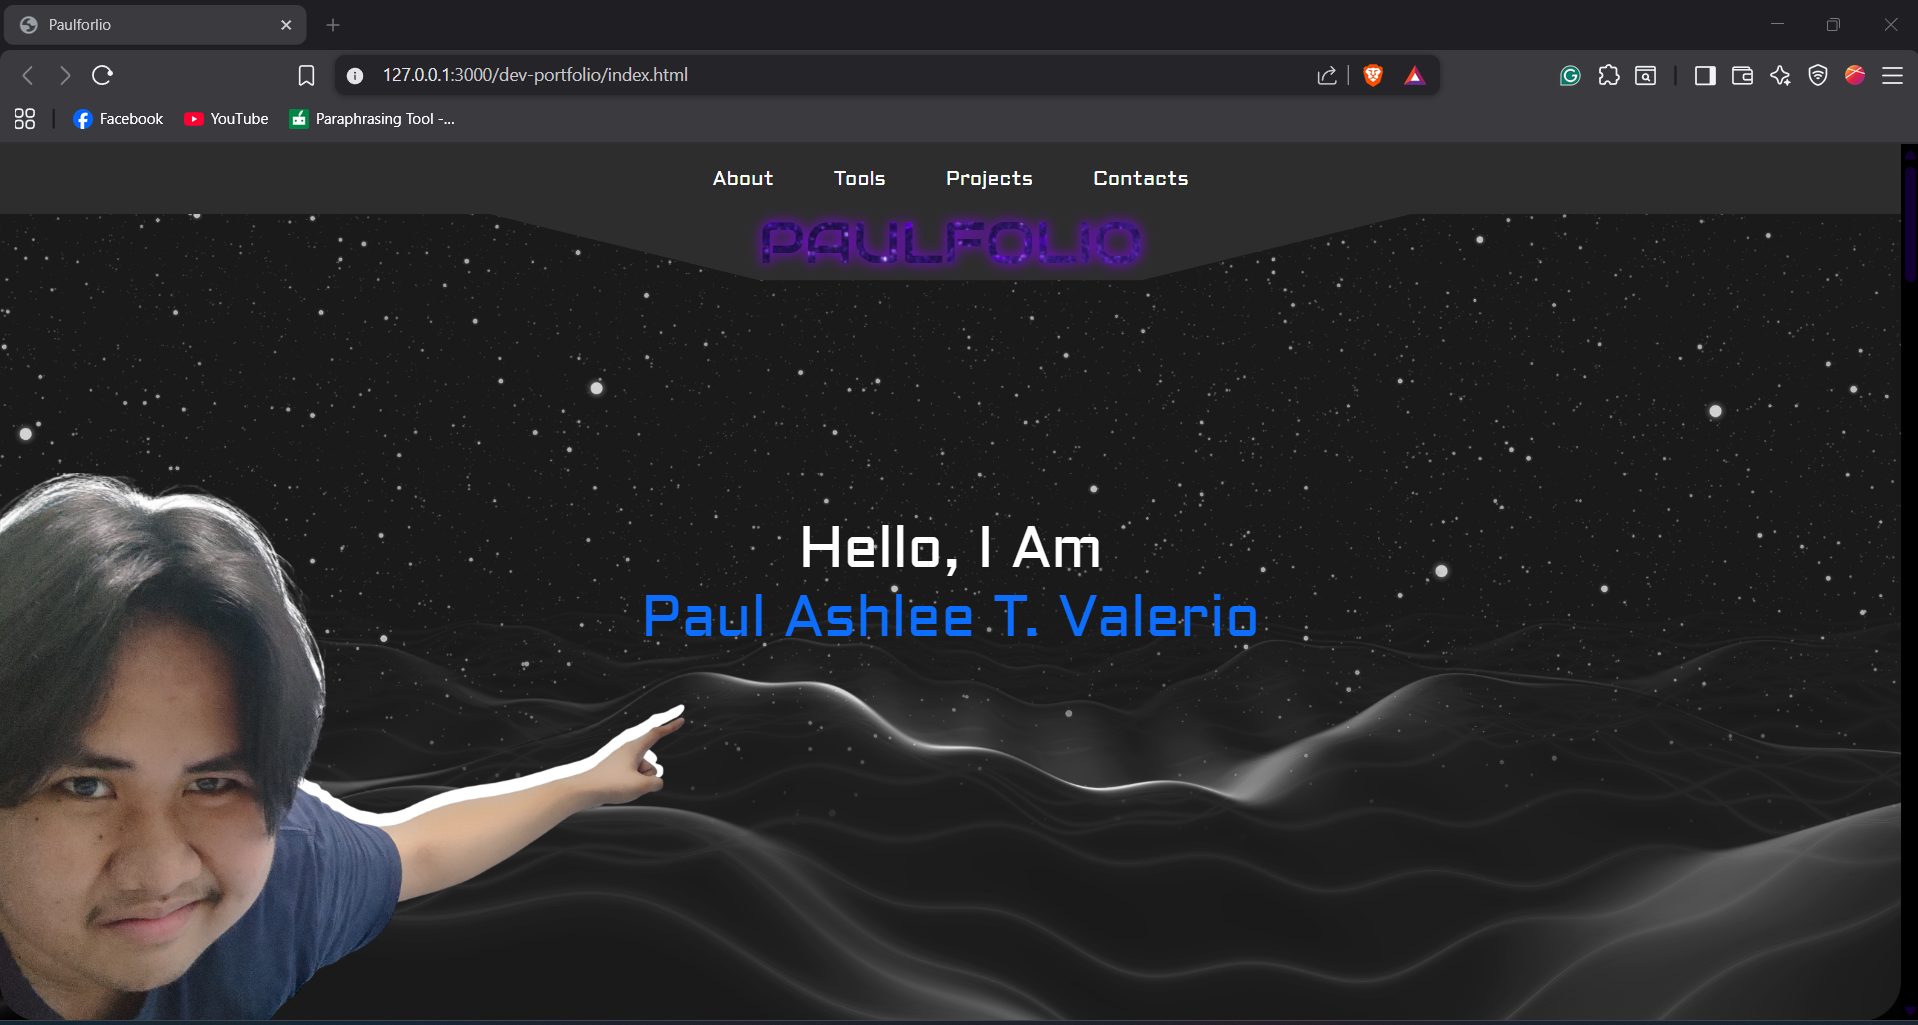
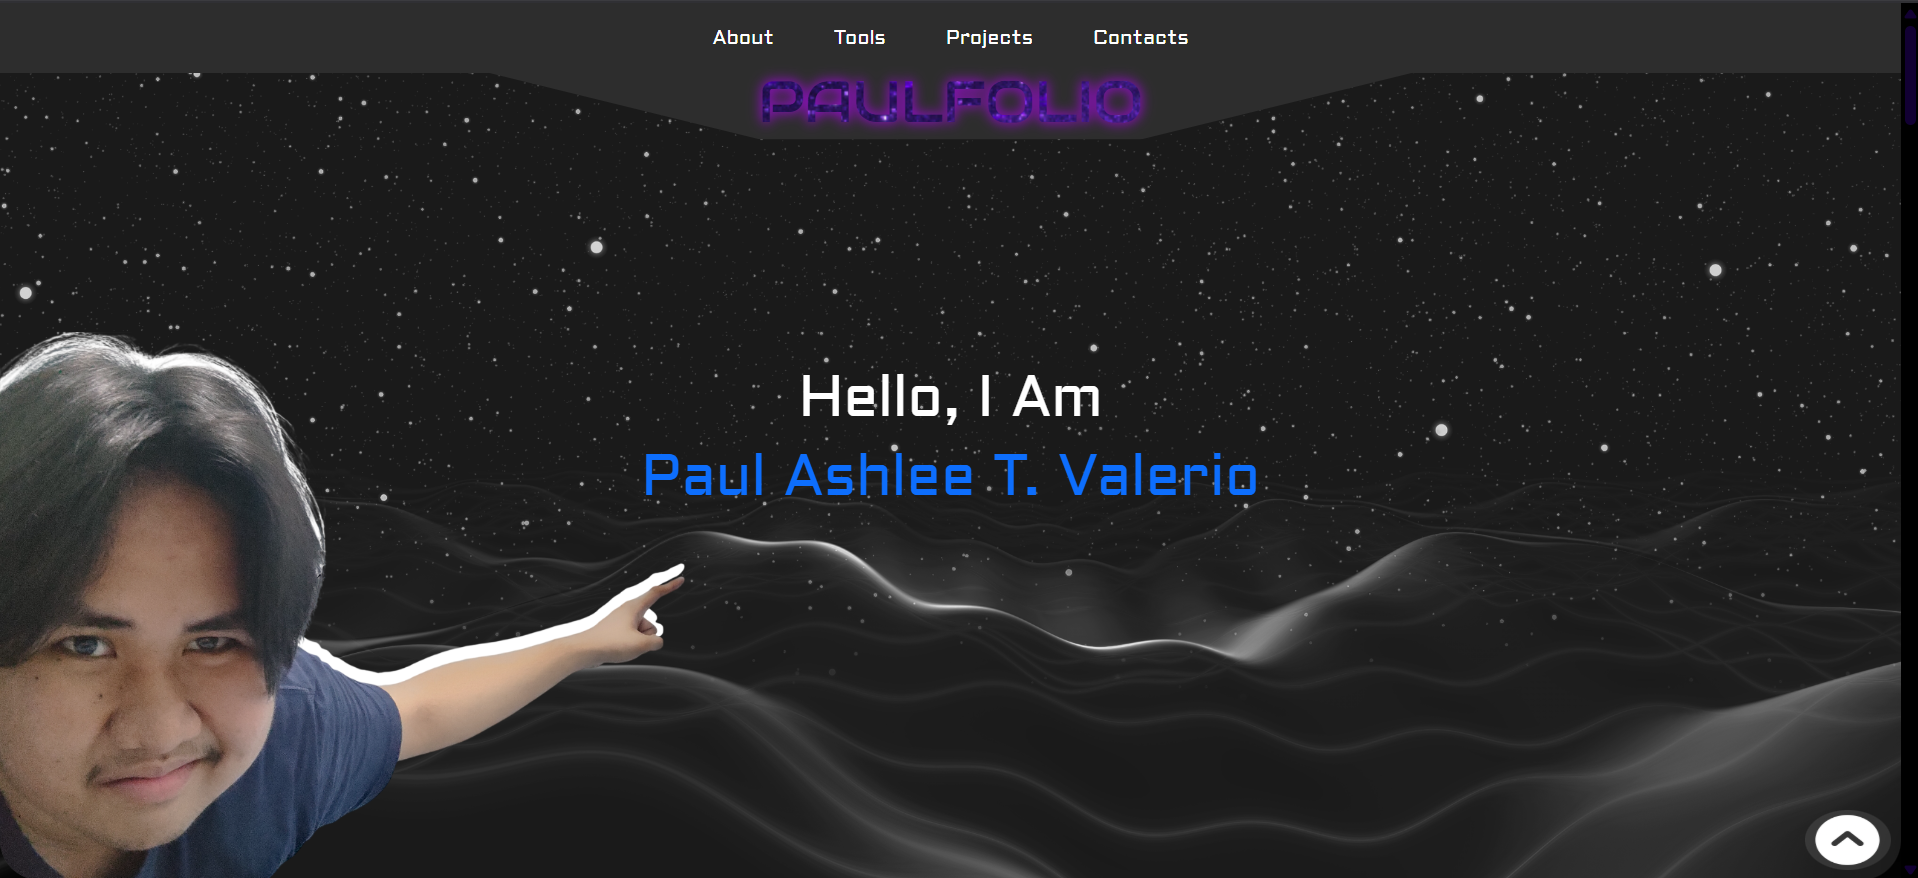
Adjusted the Project Section. Added Arrow Up

diff --git a/Styles/indexStyle.css b/Styles/indexStyle.css
@@ -38,6 +38,7 @@ html {
   src: url("../Fonts/Aldrich-Regular.ttf") format("truetype");
 }
 
+/* BACKGROUND IMG START */
 .bg-img {
   filter: grayscale(1);
   transition: filter 500ms ease;
@@ -46,6 +47,37 @@ html {
 .bg-img.change-color {
   filter: grayscale(0);
 }
+
+.arrow-up {
+  position: fixed;
+  bottom: 0.5rem;
+  right: 0.5rem;
+  width: clamp(3.5rem, 4.5dvw, 5rem);
+  height: clamp(3rem, 5dvh, 6rem);
+  background-color: var(--transparentWhite);
+  z-index: 1000;
+  opacity: 0;
+  animation: fade-up 1s cubic-bezier(0.1, 1, 0.9, 1) forwards;
+  animation-delay: 3s;
+}
+
+.arrow-container img {
+  width: clamp(3rem, 4dvw, 5rem);
+  height: clamp(3rem, 5dvh, 6rem);
+}
+
+.arrow-container img:nth-child(2) {
+  opacity: 0;
+}
+
+.arrow-container:hover img:nth-child(1) {
+  opacity: 0;
+}
+
+.arrow-container:hover img:nth-child(2) {
+  opacity: 1;
+}
+/* BACKGROUND IMG END */
 
 /* LOADER START */
 .loader-front {
@@ -71,12 +103,12 @@ html {
 }
 
 .purple-wave1 {
-  width: clamp(100rem, 100dvw, 200rem); /*Adjust kapag may malaking screen*/
+  width: clamp(100rem, 100dvw, 200rem);
   animation: wipe-in-left 1s ease-in forwards;
 }
 
 .purple-wave2 {
-  width: clamp(100rem, 100dvw, 200rem); /*Adjust kapag may malaking screen*/
+  width: clamp(100rem, 100dvw, 200rem);
   animation: wipe-in-right 1s ease-in forwards;
 }
 
@@ -509,5 +541,13 @@ h1 {
     height: auto;
     top: 30vh;
     transform: translateY(10%);
+  }
+}
+
+/* For Phones */
+@media screen and (orientation: landscape) and (max-width: 960px) and (max-height: 600px) {
+  .project-container img {
+    height: clamp(3rem, 5dvh, 6rem) !important;
+    width: clamp(3rem, 5dvw, 6rem) !important;
   }
 }

diff --git a/index.html b/index.html
@@ -24,6 +24,24 @@
       alt="NoGIF"
       class="bg-img position-fixed object-fit-cover vh-100 top-0 w-100 h-100 img-fluid z-n1"
     />
+
+    <section class="arrow-up rounded-circle">
+      <a
+        href="#"
+        class="arrow-container d-flex justify-content-center position-relative"
+      >
+        <img
+          src="./Images/Arrowup.png"
+          alt="NoIMG"
+          class="position-absolute z-2"
+        />
+        <img
+          src="./Images/Arrowup.gif"
+          alt="NoGIF"
+          class="position-absolute z-1"
+        />
+      </a>
+    </section>
     <!-- BACKGROUND IMG END -->
 
     <!-- LOADER START -->

diff --git a/Script/indexScript.js b/Script/indexScript.js
@@ -4,7 +4,6 @@ const navchange = document.querySelector(".nav-bar");
 const observer = new IntersectionObserver((entries) => {
   entries.forEach((entry) => {
     const animClass = entry.target.dataset.animate;
-    console.log(animClass);
 
     if (animClass) {
       entry.target.classList.toggle(animClass, entry.isIntersecting);
